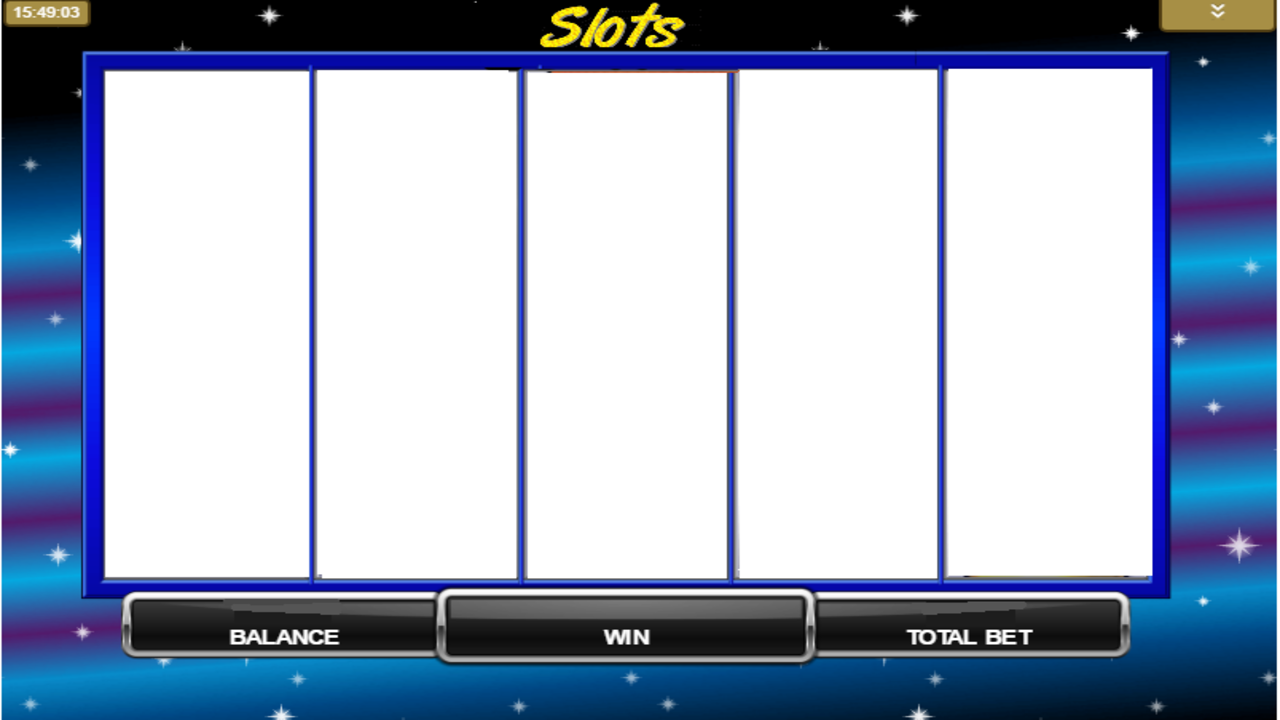
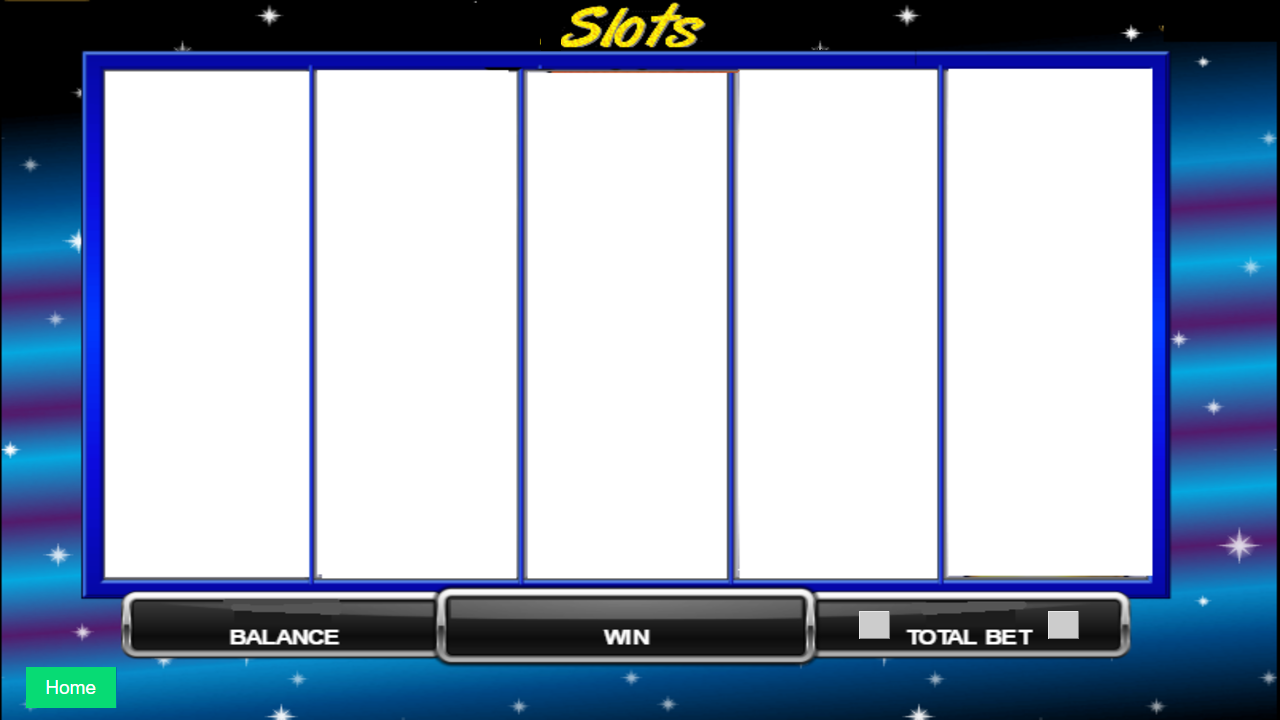
allir buttons komið, keyrir alltaf allar línur

diff --git a/Game.py b/Game.py
@@ -8,8 +8,10 @@ white = (255, 255, 255)
 red = (255, 0, 0)
 
 initCredit = 0
+initBet = 0
+initWin = 0
 
-gameStats = [initCredit]
+gameStats = [initCredit, initBet, initWin]
 
 display_width = 1280
 display_height = 720
@@ -41,6 +43,7 @@ thePics = {
 
 font = pygame.font.Font('Fonts/freesansbold.ttf', 30)
 creditFont = pygame.font.Font('Fonts/digital-7italic.ttf', 50)
+inGameCreditFont = pygame.font.Font('Fonts/digital-7italic.ttf', 30)
 pygame.display.set_caption('Slot Machine: Deluxe Version')
 
 def introMenu():
@@ -127,6 +130,44 @@ def theGame():
                 keyPressed = True
                 pressed = pygame.key.get_pressed()
 
+        click = []
+
+        balanceDisp = inGameCreditFont.render('%d kr.' % gameStats[0], True, red)
+        balanceRect = balanceDisp.get_rect()
+        balanceRect.topleft = (250, 601)
+        screen.blit(balanceDisp, balanceRect)
+
+        winDisp = inGameCreditFont.render('%d kr.' % gameStats[2], True, red)
+        winRect = winDisp.get_rect()
+        winRect.topleft = (605, 601)
+        screen.blit(winDisp, winRect)
+
+        betDisp = inGameCreditFont.render('%d kr.' % gameStats[1], True, red)
+        betRect = betDisp.get_rect()
+        betRect.topleft = (940, 601)
+        screen.blit(betDisp, betRect)
+
+        plusDisp = inGameCreditFont.render('+', True, red)
+        plusRect = plusDisp.get_rect()
+        plusRect.topleft = (1058, 612)
+        screen.blit(plusDisp, plusRect)
+
+        minusDisp = inGameCreditFont.render('-', True, red)
+        minusRect = minusDisp.get_rect()
+        minusRect.topleft = (867, 612)
+        screen.blit(minusDisp, minusRect)
+
+        click.append(plusRect)
+        click.append(minusRect)
+
+        if mouseClicked and mousex > 25 and mousex < 120 and mousey > 670 and mousey < 710:
+            introMenu()
+        if mouseClicked and click[1].collidepoint(event.pos):
+            if gameStats[1] >= 10:
+                gameStats[1] -= 10
+        if mouseClicked and click[0].collidepoint(event.pos):
+            if gameStats[1] <= 90:
+                gameStats[1] += 10
 
         pygame.display.update()
         clock.tick(60)
